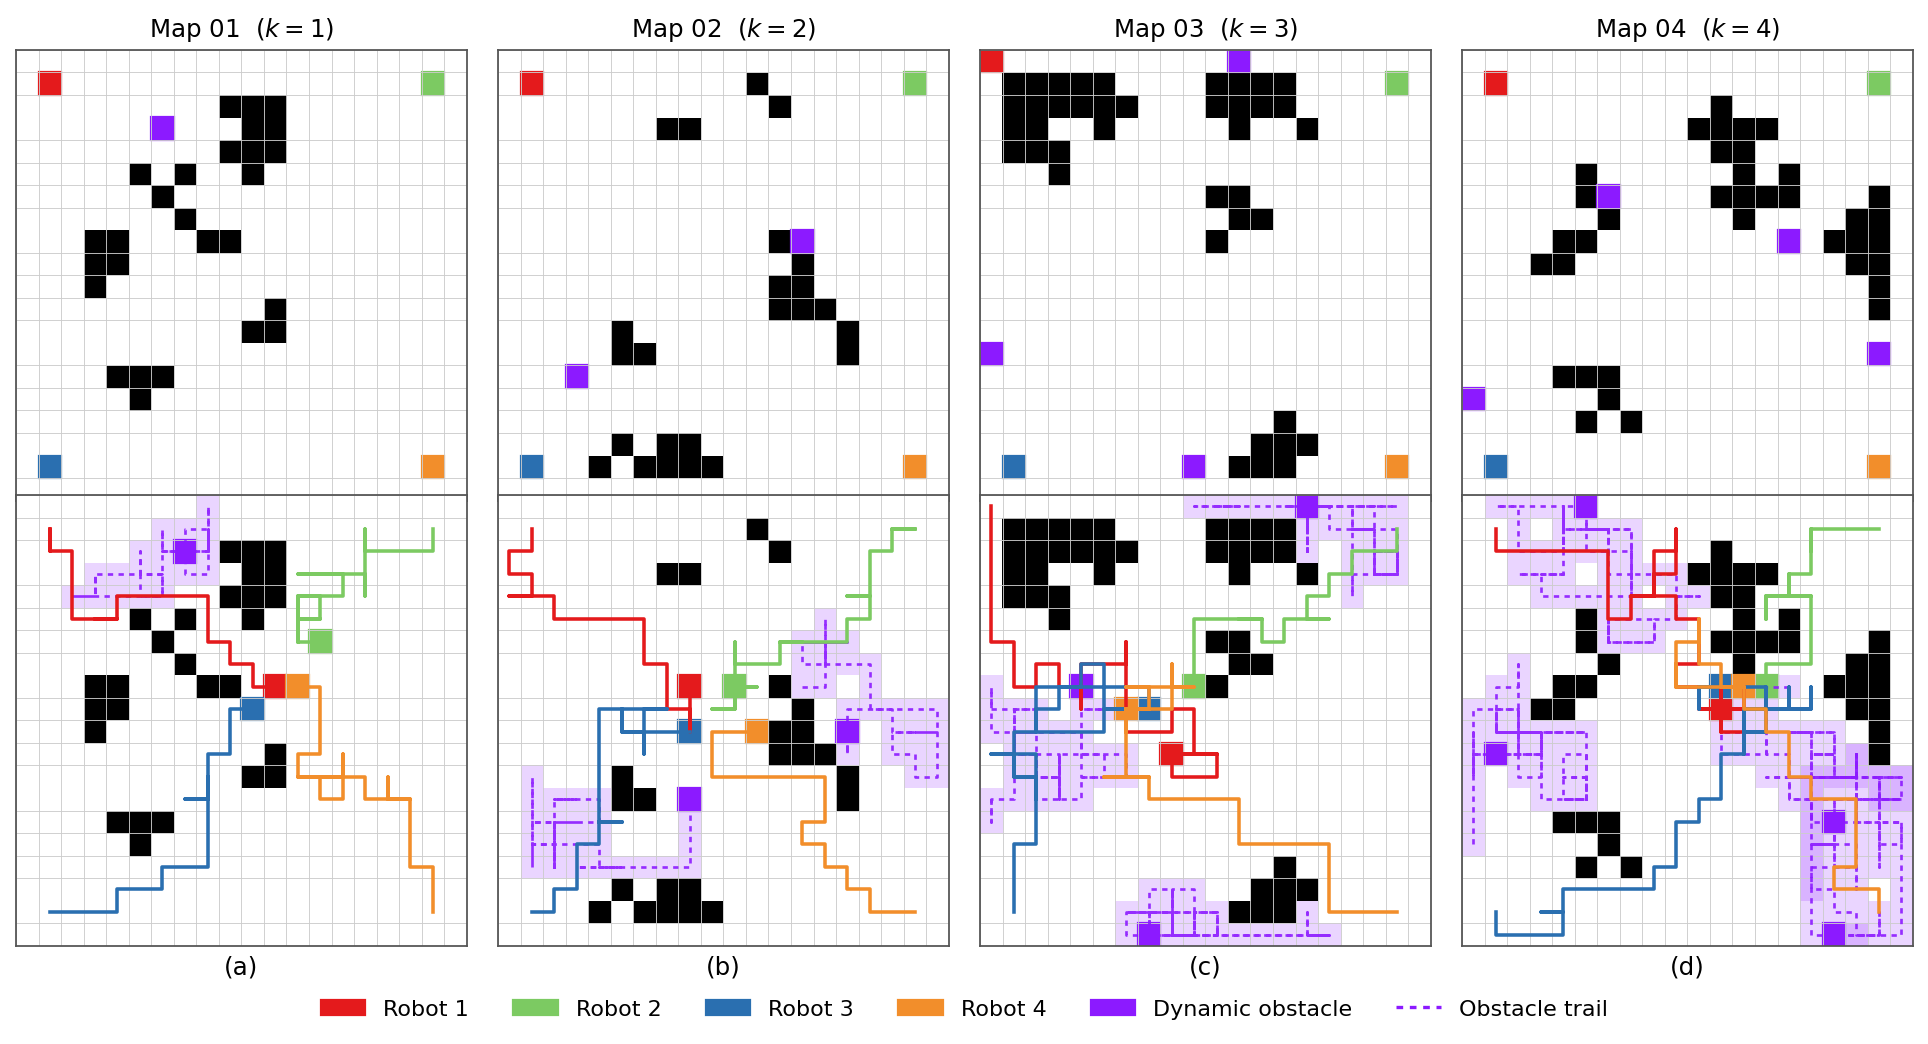
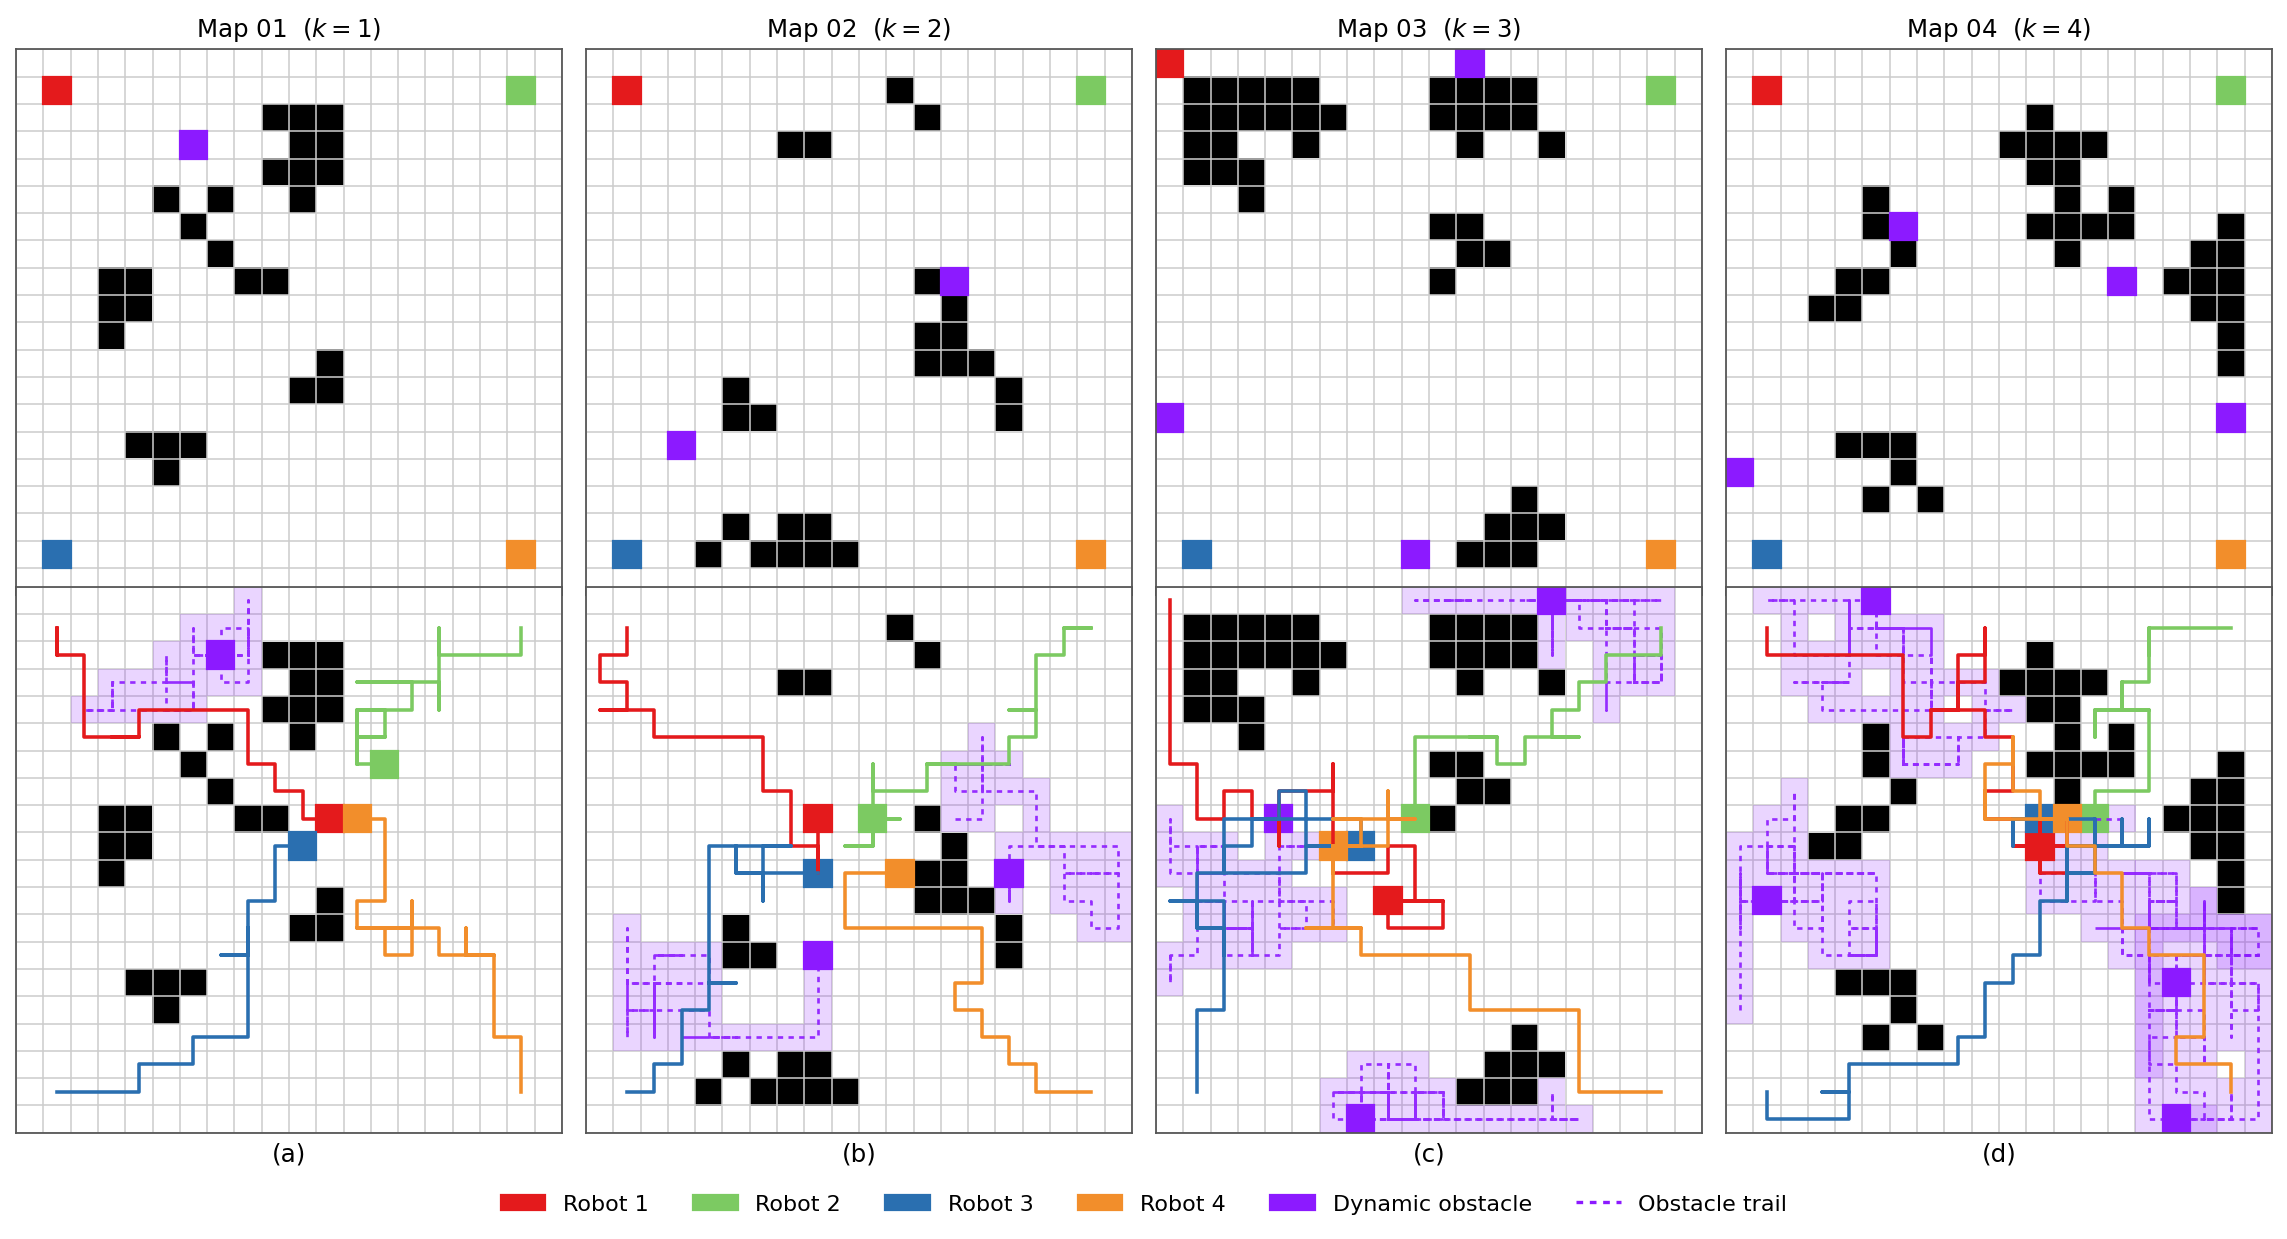
Test case 06 figure: explicit uniform gridlines (0.7pt), larger cells; minor-grid aliasing hid some horizontal lines

Changed region(s): [[0.0, 0.0, 0.9959, 0.9808]]

diff --git a/paper_rev2/dynamic_testcase.py b/paper_rev2/dynamic_testcase.py
@@ -208,7 +208,7 @@ def plot(trajs, fig_path: Path):
     from matplotlib.lines import Line2D
     from matplotlib.patches import Patch
 
-    fig, axes = plt.subplots(2, 4, figsize=(12.2, 6.4))
+    fig, axes = plt.subplots(2, 4, figsize=(14.4, 7.6))
     for col in range(4):
         t = trajs[str(col + 1)]
         static = np.array(t["static_map"])
@@ -216,10 +216,15 @@ def plot(trajs, fig_path: Path):
         for row in range(2):
             ax = axes[row, col]
             ax.imshow(np.where(static == 1, 1.0, 0.0), cmap="gray_r",
-                      vmin=0, vmax=1, origin="upper")
-            ax.set_xticks(np.arange(-0.5, M, 1), minor=True)
-            ax.set_yticks(np.arange(-0.5, M, 1), minor=True)
-            ax.grid(which="minor", color=GRID_COLOR, linewidth=0.4)
+                      vmin=0, vmax=1, origin="upper",
+                      interpolation="nearest")
+            # explicit gridlines (minor-grid rendering aliases away at
+            # column scale, which hid some horizontal lines)
+            for g in np.arange(-0.5, M + 0.5, 1):
+                ax.axhline(g, color=GRID_COLOR, linewidth=0.7, zorder=1)
+                ax.axvline(g, color=GRID_COLOR, linewidth=0.7, zorder=1)
+            ax.set_xlim(-0.5, M - 0.5)
+            ax.set_ylim(M - 0.5, -0.5)
             ax.tick_params(which="both", bottom=False, left=False,
                            labelbottom=False, labelleft=False)
             for spine in ax.spines.values():
